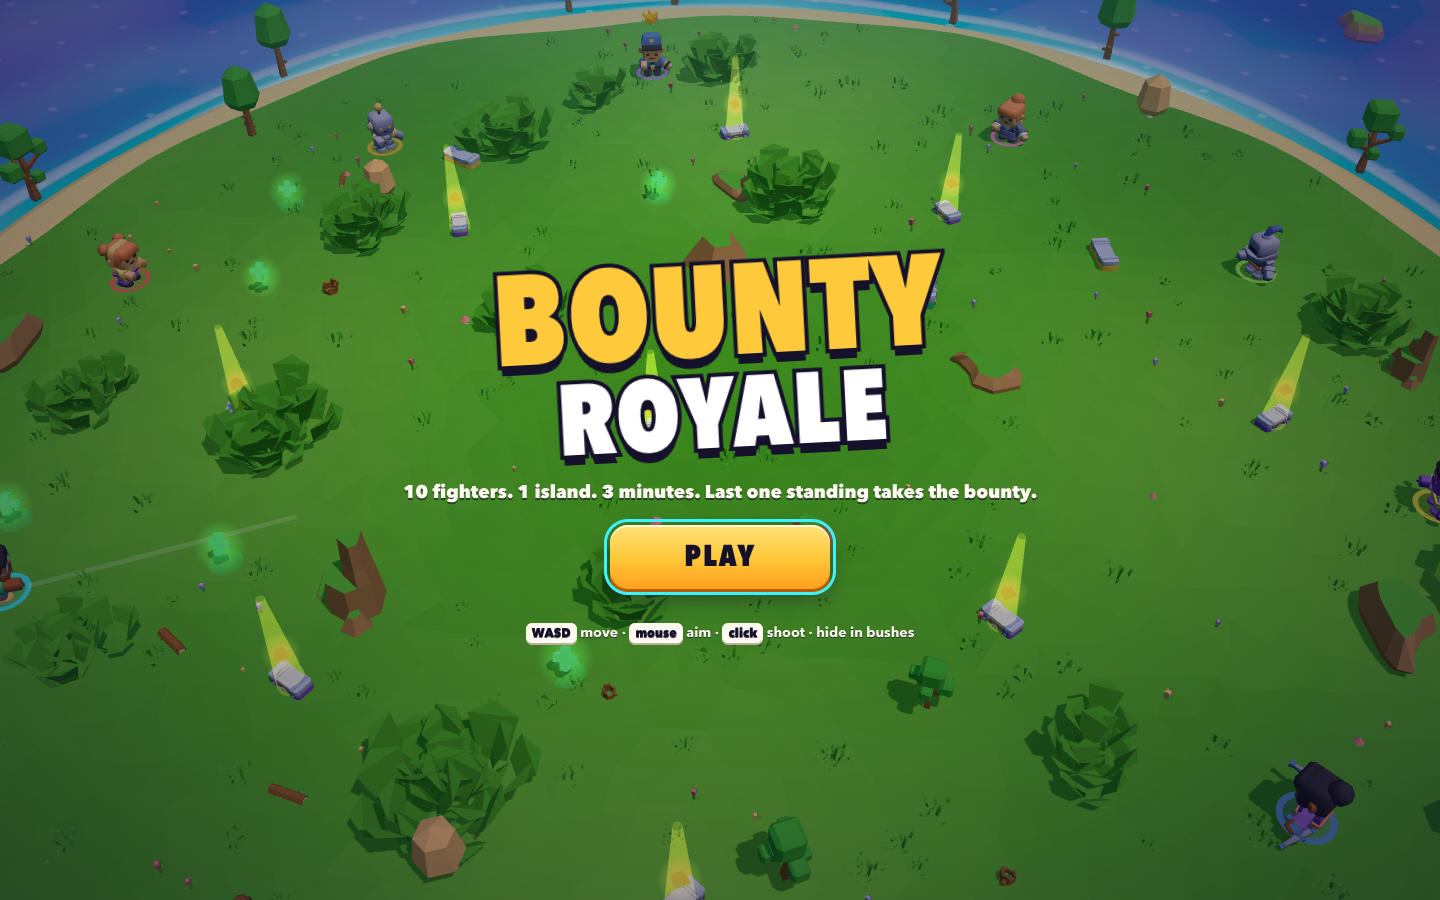
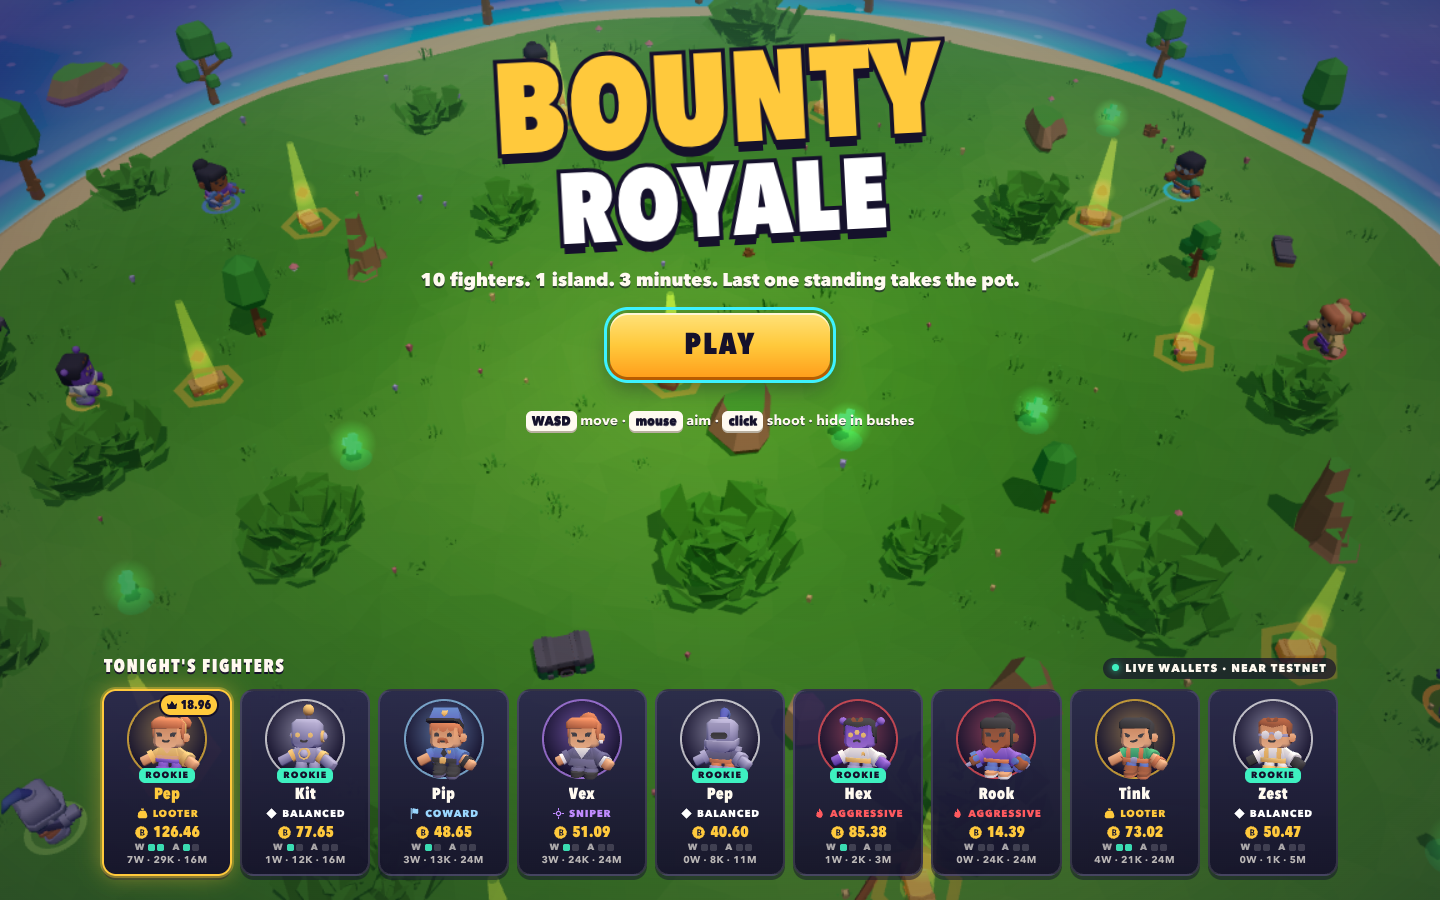
QA: Lighthouse scores + cost analysis, verify/chain docs, refreshed checkpoint screens (capture proxies relayer CORS)

diff --git a/tools/capture.ts b/tools/capture.ts
@@ -51,14 +51,35 @@ const browser = await chromium.launch({
   args: ["--ignore-gpu-blocklist", "--enable-gpu-rasterization", "--use-angle=metal"],
 });
 const errors: string[] = [];
+// The relayer (:8788) only allows CORS from its dev ports. When capturing from another port (BR_URL),
+// proxy relayer calls and add the header, so the lobby shows the live wallets instead of "offline".
+const RELAYER = process.env.BR_RELAYER ?? "http://127.0.0.1:8788";
+const ORIGIN = new URL(BASE).origin;
+async function corsProxy(ctx: import("@playwright/test").BrowserContext) {
+  await ctx.route(`${RELAYER}/**`, async (route) => {
+    const cors = {
+      "access-control-allow-origin": ORIGIN,
+      "access-control-allow-headers": "content-type",
+      "access-control-allow-methods": "GET, POST, OPTIONS",
+    };
+    if (route.request().method() === "OPTIONS") return route.fulfill({ status: 204, headers: cors });
+    try {
+      const res = await route.fetch();
+      await route.fulfill({ response: res, headers: { ...res.headers(), ...cors } });
+    } catch {
+      await route.abort();
+    }
+  });
+}
 const play = `/?e2e&autoplay&seed=${SEED}&bots=1`;
 
 // ---- desktop title (no video)
 {
   const ctx = await browser.newContext({ viewport: { width: 1440, height: 900 }, baseURL: BASE });
+  await corsProxy(ctx);
   const page = await ctx.newPage();
   await page.goto("/?e2e");
-  await page.waitForTimeout(2_500);
+  await page.waitForTimeout(6_000); // assets + live roster from the chain
   await shot(page, "desktop-title.png");
   await ctx.close();
 }
@@ -71,6 +92,7 @@ const play = `/?e2e&autoplay&seed=${SEED}&bots=1`;
     baseURL: BASE,
     recordVideo: { dir: TMP, size: { width: 1440, height: 900 } },
   });
+  await corsProxy(ctx);
   const page = await ctx.newPage();
   page.on("console", (m) => m.type() === "error" && errors.push(`desktop console: ${m.text()}`));
   page.on("pageerror", (e) => errors.push(`desktop pageerror: ${e.message}`));
@@ -102,10 +124,11 @@ const play = `/?e2e&autoplay&seed=${SEED}&bots=1`;
 // ---- mobile 390x844 (Pixel 7 touch profile)
 {
   const ctx = await browser.newContext({ ...devices["Pixel 7"], viewport: { width: 390, height: 844 }, baseURL: BASE });
+  await corsProxy(ctx);
   const page = await ctx.newPage();
   page.on("pageerror", (e) => errors.push(`mobile pageerror: ${e.message}`));
   await page.goto("/?e2e");
-  await page.waitForTimeout(2_500);
+  await page.waitForTimeout(6_000);
   await shot(page, "mobile-title.png");
   await page.goto(play);
   await waitPlaying(page);

diff --git a/docs/QA.md b/docs/QA.md
@@ -3,6 +3,20 @@
 Owner: Agent D (`tests/**`, `tools/**`, `playwright.config.ts`, `vitest.config.ts`). All tools run on
 Node 24 directly (`node tools/x.ts`, type stripping). Dev/preview servers use **port 5184** only.
 
+**One command: `npm run verify`** (`tools/verify.ts`, ~35 s) prints PASS/FAIL per README claim and
+exits 1 on any FAIL: tsc · vitest · determinism source scan · `verify-match` on every committed
+`matches/*.json` · 300-match balance gate · relayer `node --test` · read-only testnet checks via
+`https://test.rpc.fastnear.com` (contract deployed; every `get_fighters()` account has 0 access keys;
+latest settled match in `get_recent_matches` has an `input_log_hash`). Offline, the chain checks print
+SKIP, not FAIL. Needs `cd relayer && npm ci` once (otherwise the relayer line FAILs with that hint).
+Env: `BR_RPC`, `BR_CONTRACT`.
+
+Last run (2026-11-13 16:30 UTC, main d0425f9 + QA): **9 PASS, 0 FAIL, 0 SKIP** — 41 vitest tests;
+10 sim files scanned; 2/2 matches reproduced; balance win share balanced 32.3 % (3 of 10 slots incl. idx 0),
+camper 19.7, aggressive 16.7, coward 14.7, looter 8.7, sniper 8.0, avg 134.5 s; relayer 34/34; 9/9 bots
+keyless; match #32 settled with its input-log hash. Note: at 100 matches "balanced" hit 41 % (noise
+around 3 slots × 10 %), so the gate uses 300.
+
 | Check | Command | Proves | Needs |
 |---|---|---|---|
 | Typecheck | `npx tsc --noEmit -p .` | src, tools and tests compile under `strict` | — |
@@ -46,9 +60,18 @@ with "window.__br test hook missing" (that is the state before Agent A's merge).
   (default 30, because headless Chromium renders WebGL in software; the real target is 60 — run
   `BR_MIN_FPS=45 npx playwright test perf --headed` on a laptop). The measured value is logged and attached
   as an annotation.
+- `chain.spec.ts` (opt-in, desktop only): `RUN_CHAIN=1 BR_PORT=5186 npx playwright test chain --project=desktop`.
+  Lobby `#net-mode` says "live wallets" → `/?e2e&autoplay` (no `?seed`, so `start_match` seals the seed on
+  testnet; autoplay starts by itself) plays to "over" → the ledger shows **Verified** (server replayed and
+  settled) → `window.__br.record()` replays in Node with `replayRecord` to the same hash/winner/placements,
+  and the bots are `.testnet` accounts. Needs the relayer on :8788. Creates one real guest + match on
+  testnet (gas paid by the relayer). The relayer only allows CORS from its dev ports (5173/5180/5181/5184),
+  so the spec proxies relayer calls through Playwright and adds the header. Passed 16:35 UTC (2.1 min,
+  seed 3653452201, browser record replayed bit-for-bit).
 - `a11y.spec.ts` — axe WCAG 2.0/2.1 A+AA on title and HUD (needs `@axe-core/playwright@4.14.0`).
 
-Run one project: `npx playwright test --project=desktop`. HTML report: `npx playwright show-report`.
+`BR_PORT=5186` runs Playwright's own dev server on another port (default 5184, e.g. when a judge is
+playing there). Run one project: `npx playwright test --project=desktop`. HTML report: `npx playwright show-report`.
 
 ## Lighthouse (13.6.0, desktop + mobile)
 ```sh
@@ -63,20 +86,40 @@ CHROME_PATH="/Applications/Google Chrome.app/Contents/MacOS/Google Chrome" \
   --only-categories=performance,accessibility,best-practices \
   --output=json --output=html --output-path=docs/lighthouse/desktop --chrome-flags=--headless=new
 ```
-and prints the scores with PASS/FAIL against accessibility ≥95 and performance ≥80.
+and prints the scores with PASS/FAIL against accessibility ≥95 and performance ≥80. Use
+`BR_URL=http://127.0.0.1:5186` for a preview on another port.
+
+### Results (2026-11-13 16:40 UTC, main d0425f9, `vite preview` on 5186, page `/`, 3 runs)
+| | Performance | Accessibility | Best practices |
+|---|---|---|---|
+| Desktop | **76** / 100 / 100 | 100 | 96 |
+| Mobile | 88 / 81 / 92 | 100 | 96 |
+
+- **Flag:** performance is noisy around the gate: desktop dipped to 76 (<80) once, mobile to 81. The cost is
+  almost all **Total Blocking Time** (0–480 ms): ~1.9 s of script evaluation in the 793 KB (215 KB gzip)
+  main bundle right after load, as 3 long tasks (534 / 207 / 159 ms on desktop) — model parsing, portrait
+  rendering and building the first match / shader compile on the main thread during boot. Next: yield
+  between those steps (`await` a frame or `scheduler.yield()` between loading, portraits and `buildMatch`),
+  or defer portraits/`buildMatch` until after first paint.
+- Mobile CLS 0.106 (score 0.88): the `.lobby` roster grows when the chain fighters arrive — reserve its
+  height up front.
+- Payload 3.4 MB: ten character `.glb` files of ~255–267 KB each lead the list (fine for a game; could be
+  compressed with meshopt/Draco).
+- Best practices 96 = console errors, which here come only from the QA port: the relayer refuses CORS
+  from 5186, so on 5184 that audit should pass. LCP 0.2–0.8 s, FCP 0.8 s are good.
 
 ## Checkpoint (18:00 UTC) recipe
 ```sh
 npx vite --host 127.0.0.1 --port 5184 --strictPort &      # dev server
-node tools/capture.ts --until-over                           # docs/screens/*.png + match-desktop.webm
+node tools/capture.ts --until-over                           # docs/screens/*.png + match-desktop.webm (gitignored)
+# on another port: BR_URL=http://127.0.0.1:5186 node tools/capture.ts --until-over (relayer calls are proxied for CORS)
 npx playwright test --project=desktop match                  # pass/fail + test-results/**/video.webm
 npm run sim -- 1000 --json docs/balance.json                 # balance numbers for docs/BALANCE.md
 node tools/make-record.ts && npm run verify-match demo-1     # verifiable match
 ```
 
 ## Requests to the lead
-- devDependency `@axe-core/playwright@4.14.0` (axe test).
-- Optional npm scripts: `"make-record": "node tools/make-record.ts"`, `"capture": "node tools/capture.ts"`,
-  `"lighthouse": "node tools/lighthouse.ts"`.
+- devDependency `@axe-core/playwright@4.14.0` (axe test). Still not installed: README says `test:e2e`
+  includes "axe a11y" but the a11y spec currently SKIPs.
 - There is no `@types/node`; `tools/node-shim.d.ts` declares the few Node APIs the tools use. If the lead
   adds `@types/node`, delete the shim (they would conflict).
